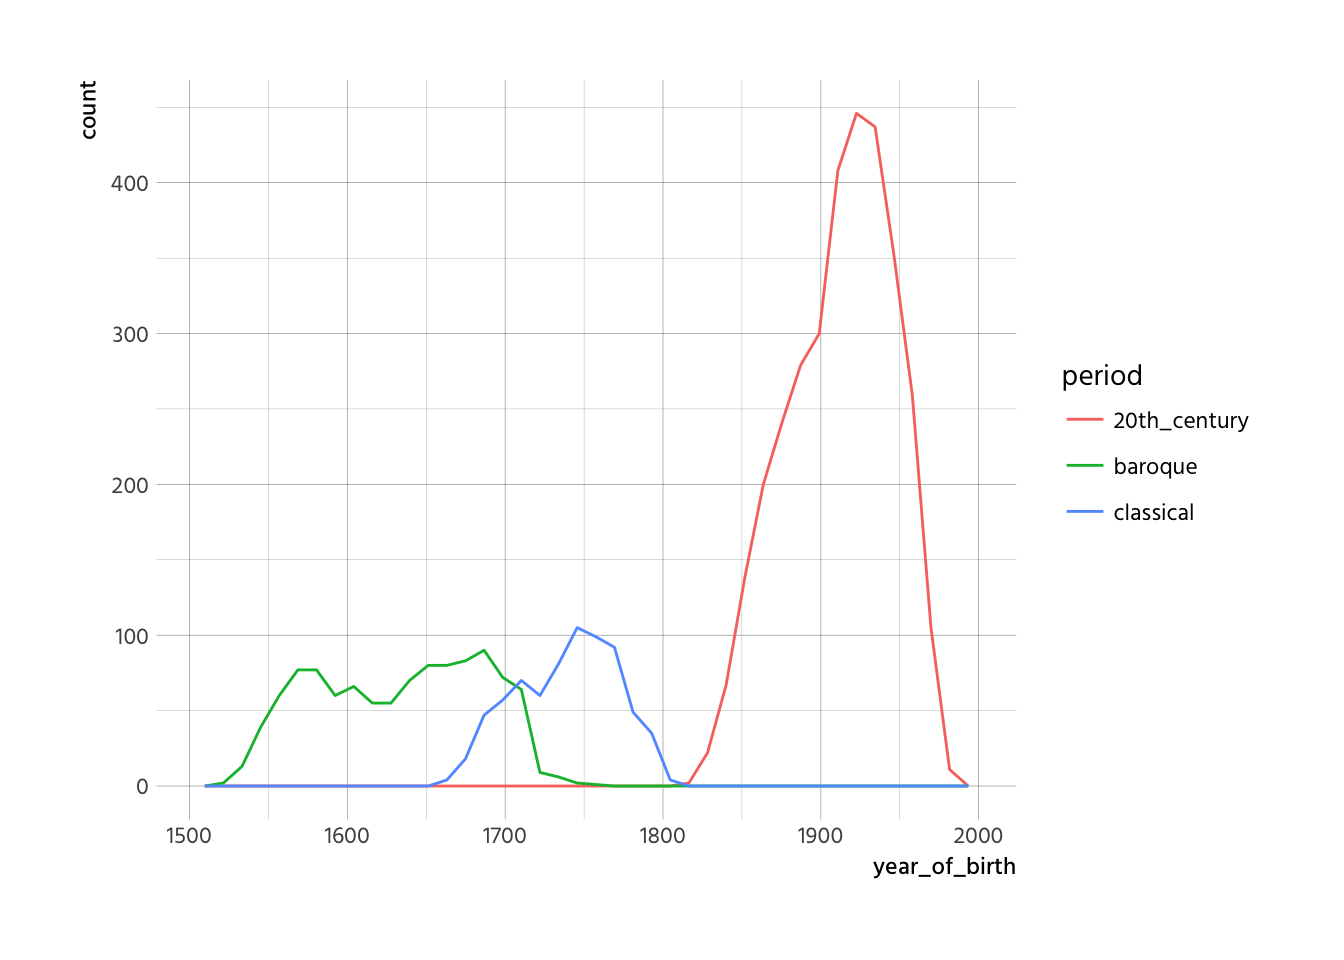
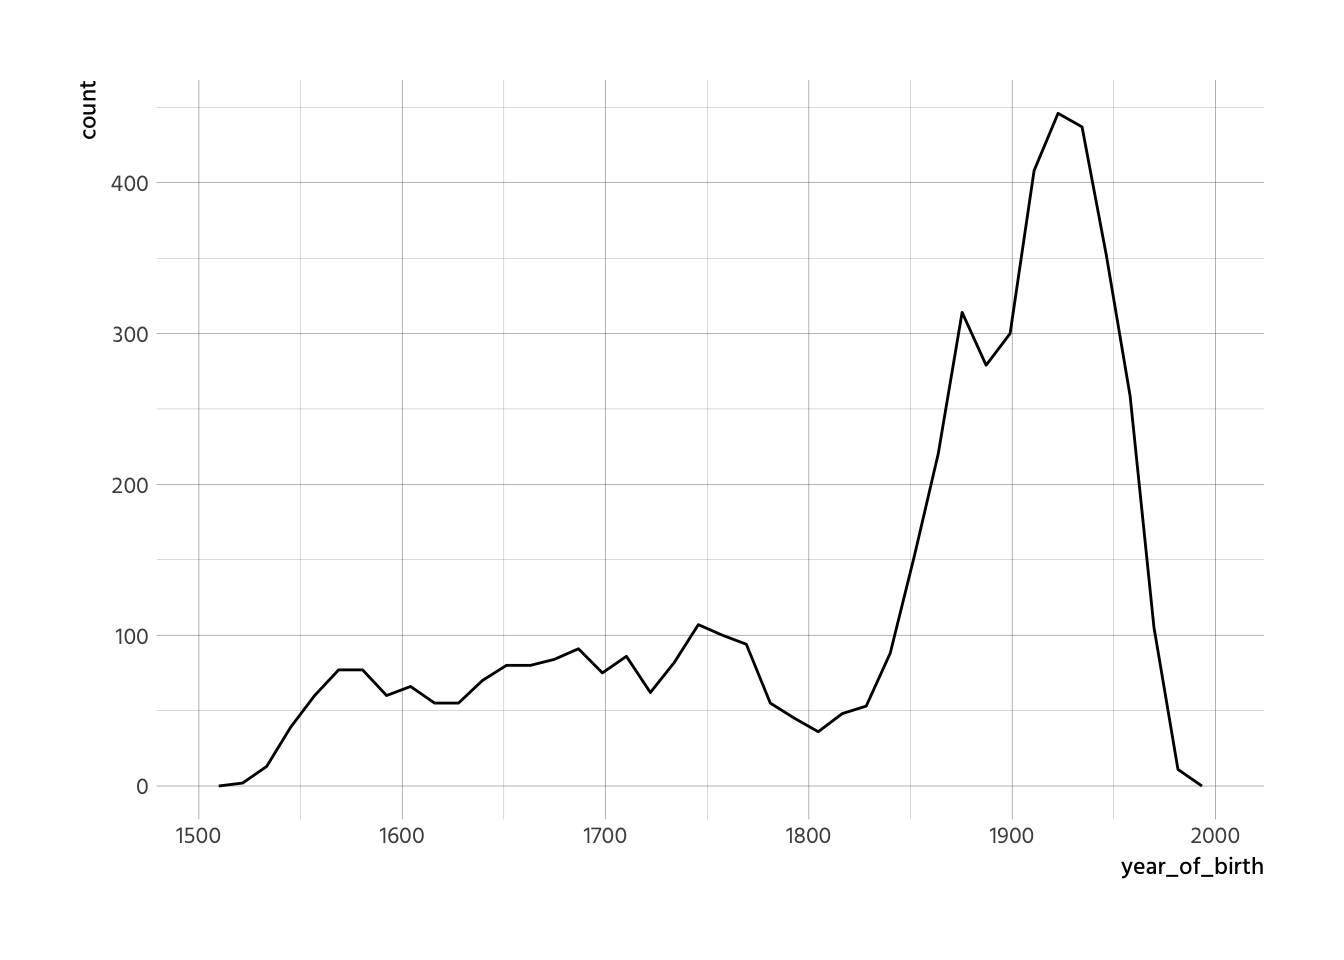
Add composers for romantic period

diff --git a/content/post/2017-10-30-scraping-composers-from-wikipedia.html b/content/post/2017-10-30-scraping-composers-from-wikipedia.html
@@ -21,11 +21,9 @@ tags:
 library(rvest)
 
 # convenience function to print first few lines of data.frames
-print_composers &lt;- function(df, n = 10) df %&gt;% head(n) %&gt;% knitr::kable()
-
-theme_set(hrbrmisc::theme_hrbrmstr())</code></pre>
-<div id="baroque-period" class="section level1">
-<h1>Baroque period</h1>
+print_composers &lt;- function(df, n = 10) df %&gt;% head(n) %&gt;% knitr::kable()</code></pre>
+<div id="baroque-period-1600-1760" class="section level1">
+<h1>Baroque period (1600-1760)</h1>
 <p>For this period, the data is in a simple list of the following format: <code>'First name' 'Surname' ('date of birth' - 'date of death')</code>.</p>
 <pre class="r"><code>link_baroque &lt;- &quot;https://en.wikipedia.org/wiki/List_of_Baroque_composers&quot;
 pg &lt;- read_html(link_baroque)
@@ -219,22 +217,73 @@ print_composers(classical_composers)</code></pre>
 </div>
 <div id="romantic-era" class="section level1">
 <h1>Romantic era</h1>
-<pre class="r"><code># link_romantic &lt;- &quot;https://en.wikipedia.org/wiki/List_of_Romantic-era_composers&quot;
-# pg &lt;- read_html(link_romantic)
-# 
-# pg</code></pre>
+<p>For the composers of the romantic era we need a different approach, since they are stored in a html-table. Luckily the tables can be easily accessed via the css-class <code>table.wikitable</code>. We convert the content to a <code>data_frame</code> by mapping <code>html_table</code> over all five tables. In the next step I fix a problem with the date of birth of Scott Joplin.</p>
+<pre class="r"><code>link_romantic &lt;- &quot;https://en.wikipedia.org/wiki/List_of_Romantic-era_composers&quot;
+pg &lt;- read_html(link_romantic)
+
+composers_romantic &lt;- pg %&gt;% 
+  html_nodes(&quot;table.wikitable&quot;) %&gt;% 
+  map(html_table) %&gt;% 
+  map_at(5, ~mutate_at(.x,
+                       c(&quot;Date born&quot;),
+                       function(x) {str_extract(x, &quot;\\d{4}&quot;) %&gt;% parse_number()})) %&gt;%
+  bind_rows() %&gt;% 
+  mutate(period = &quot;romantic&quot;) %&gt;% 
+  rename(composer = Name,
+         year_of_birth = &quot;Date born&quot;, 
+         year_of_death = &quot;Date died&quot;)</code></pre>
 </div>
 <div id="th-century" class="section level1">
 <h1>20th century</h1>
-<pre class="r"><code># 20th century
-link_composers_20th &lt;- &quot;https://en.wikipedia.org/wiki/List_of_20th-century_classical_composers&quot;
+<p>The table for composers of the 20th century is slightly more elaborate, which complicates things for use. In order to be able to sort by surname, the table contains a sortkey (“Beethoven, Ludwig van” in case of Beethoven). When converting to a data_frame, the name of the composer ends up being “Beethoven, Ludwig vanLudwig van Beethoven”.</p>
+<pre class="r"><code>link_composers_20th &lt;- &quot;https://en.wikipedia.org/wiki/List_of_20th-century_classical_composers&quot;
 pg &lt;- read_html(link_composers_20th)
   
 table_20 &lt;- pg %&gt;% 
   html_node(&quot;table.wikitable&quot;) %&gt;%
   html_table(fill = TRUE)
 
-sortkeys &lt;- pg %&gt;% 
+print_composers(table_20, 3)</code></pre>
+<table>
+<thead>
+<tr class="header">
+<th align="left">Name</th>
+<th align="left">Year of birth</th>
+<th align="right">Year of death</th>
+<th align="left">Nationality</th>
+<th align="left">Notable 20th-century works</th>
+<th align="left">Remarks</th>
+</tr>
+</thead>
+<tbody>
+<tr class="odd">
+<td align="left">Dancla, CharlesCharles Dancla</td>
+<td align="left">1817</td>
+<td align="right">1907</td>
+<td align="left">French</td>
+<td align="left">Solo de concours no. 7, Op. 224</td>
+<td align="left">Romanticism</td>
+</tr>
+<tr class="even">
+<td align="left">Arditi, LuigiLuigi Arditi</td>
+<td align="left">1822</td>
+<td align="right">1903</td>
+<td align="left">Italian</td>
+<td align="left"></td>
+<td align="left"></td>
+</tr>
+<tr class="odd">
+<td align="left">Kirchner, TheodorTheodor Kirchner</td>
+<td align="left">1823</td>
+<td align="right">1903</td>
+<td align="left">German</td>
+<td align="left"></td>
+<td align="left"></td>
+</tr>
+</tbody>
+</table>
+<p>I found no better way than to accept this, extract the sortkeys separately, and then delete the sortkeys from the column with <code>str_replace(composer, sortkeys, &quot;&quot;)</code>. If there is a better way, I would be glad if someone could point it out in the comments.</p>
+<pre class="r"><code>sortkeys &lt;- pg %&gt;% 
   html_node(&quot;table.wikitable&quot;) %&gt;%
   html_nodes(css = &#39;span[class=&quot;sortkey&quot;]&#39;) %&gt;% 
   html_text()
@@ -249,8 +298,7 @@ composers_20th &lt;- table_20 %&gt;%
          period = &quot;20th_century&quot;) %&gt;% 
   select(-sortkeys)
 
-
-print_composers(composers_20th, 20)</code></pre>
+print_composers(composers_20th)</code></pre>
 <table>
 <thead>
 <tr class="header">
@@ -321,66 +369,6 @@ print_composers(composers_20th, 20)</code></pre>
 <td align="right">1916</td>
 <td align="left">20th_century</td>
 </tr>
-<tr class="odd">
-<td align="left">Jacques Blumenthal</td>
-<td align="right">1829</td>
-<td align="right">1908</td>
-<td align="left">20th_century</td>
-</tr>
-<tr class="even">
-<td align="left">Karl Goldmark</td>
-<td align="right">1830</td>
-<td align="right">1915</td>
-<td align="left">20th_century</td>
-</tr>
-<tr class="odd">
-<td align="left">Karl Klindworth</td>
-<td align="right">1830</td>
-<td align="right">1916</td>
-<td align="left">20th_century</td>
-</tr>
-<tr class="even">
-<td align="left">Hans Bronsart von Schellendorff</td>
-<td align="right">1830</td>
-<td align="right">1913</td>
-<td align="left">20th_century</td>
-</tr>
-<tr class="odd">
-<td align="left">Jan Gerard Palm</td>
-<td align="right">1831</td>
-<td align="right">1906</td>
-<td align="left">20th_century</td>
-</tr>
-<tr class="even">
-<td align="left">Benjamin Dwight Allen</td>
-<td align="right">1831</td>
-<td align="right">1914</td>
-<td align="left">20th_century</td>
-</tr>
-<tr class="odd">
-<td align="left">Salomon Jadassohn</td>
-<td align="right">1831</td>
-<td align="right">1902</td>
-<td align="left">20th_century</td>
-</tr>
-<tr class="even">
-<td align="left">Joseph Joachim</td>
-<td align="right">1831</td>
-<td align="right">1907</td>
-<td align="left">20th_century</td>
-</tr>
-<tr class="odd">
-<td align="left">Mathilde Hannah von Rothschild</td>
-<td align="right">1832</td>
-<td align="right">1924</td>
-<td align="left">20th_century</td>
-</tr>
-<tr class="even">
-<td align="left">Charles-Wilfrid de Bériot</td>
-<td align="right">1833</td>
-<td align="right">1914</td>
-<td align="left">20th_century</td>
-</tr>
 </tbody>
 </table>
 </div>
@@ -389,12 +377,24 @@ print_composers(composers_20th, 20)</code></pre>
 <pre class="r"><code>all_composers &lt;- bind_rows(
   baroque_composers,
   classical_composers,
+  composers_romantic,
   composers_20th
-) %&gt;% 
-  distinct()</code></pre>
-<pre class="r"><code>ggplot(all_composers, aes(year_of_birth, colour = period)) +
-  geom_freqpoly(bins = 40)</code></pre>
+) </code></pre>
+<p>Until now this post consits only of code and tables, so lets use our newly gathered data and create a nice graph. Since some composers are listed for two periods, because they lived during their transition, we should remove these “duplicates”.</p>
+<pre class="r"><code>all_composers %&gt;% 
+  distinct(composer, year_of_birth, year_of_death) %&gt;%
+  ggplot(aes(year_of_birth)) +
+  geom_freqpoly(bins = 40) +
+  hrbrmisc::theme_hrbrmstr() +
+  labs(x = &quot;Year of birth&quot;, y = &quot;# of composers&quot;,
+       title = &quot;Birth-years for classical composers\nlisted on wikipedia&quot;)</code></pre>
 <pre><code>## Warning: Removed 4 rows containing non-finite values (stat_bin).</code></pre>
-<p><img src="/post/2017-10-30-scraping-composers-from-wikipedia_files/figure-html/unnamed-chunk-9-1.png" width="672" /></p>
-<p>Somehow there are too few people around 1800. Aaaah, thats because we miss the romantic era until now.</p>
+<p><img src="/post/2017-10-30-scraping-composers-from-wikipedia_files/figure-html/unnamed-chunk-10-1.png" width="672" /></p>
+</div>
+<div id="still-to-do" class="section level1">
+<h1>Still to do</h1>
+<ul>
+<li>Add dates for periods, some explanation which composers are associated with borders of periods.</li>
+<li>Think and write about interpretation of graph.</li>
+</ul>
 </div>
